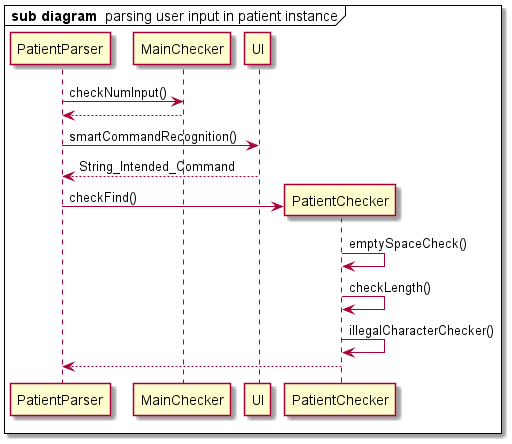
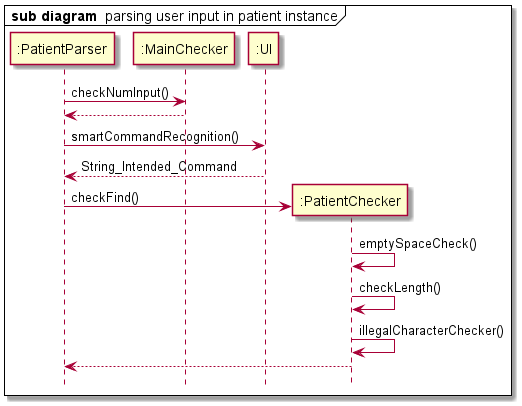
add details to DG and improve diagrams.

Changed region(s): [[0.0, 0.0, 1.0, 0.9754]]

diff --git a/docs/DeveloperGuide.md b/docs/DeveloperGuide.md
@@ -14,13 +14,9 @@
 5. [Design](#4-design) 
     1. [Architecture](#41-architecture) (owen)
     2. [UI component](#42-ui-component) (ms)
-    3. [Instance Component](#43-instance-component) (jiaen)
-    4. [Parser Component](#44-parser-component) (jien)
-    5. [Error Checker Component](#45-error-checker-component) (jiaen)
-    6. [Commands Component](#46-commands-component) (jiaen)
-    7. [Exceptions Component](#47-exceptions-component) (jiaen)
-    8. [Model component](#48-model-component) (alex)
-    9. [Storage component](#49-storage-component) (sarrah)
+    3. [Logic Component](#43-logic-component) (jiaen)
+    4. [Model component](#44-model-component) (alex)
+    5. [Storage component](#45-storage-component) (sarrah)
 6. [Implementation](#5-implementation)
     1. [Staff](#51-staff) 
     	1. [Staff Menu](#511-staff-menu)
@@ -88,6 +84,7 @@ The Developer Guide hopes to impart to you the following:
 1. Properly set up for HealthVault
 2. HealthVault's system architecture
 3. The implementation method for HealthVault's various functions and their considerations
+4. Instructions for manual testing of the application
 
 We hope you will have a fruitful time learning about HealthVault.
 
@@ -195,16 +192,13 @@ The UI of this program can be found under the package named UI. It consists of `
 &nbsp;&nbsp;&nbsp;&nbsp;&nbsp;&nbsp;&nbsp;&nbsp; Is responsible for handling all input and output of the program. 
 
 
-### 4.3 Instance Component
-**image for logic**
+### 4.3 Logic Component
 
-<img src="diagrams/LogicComponent.png">
+&nbsp;&nbsp;&nbsp;&nbsp;&nbsp;&nbsp;&nbsp;&nbsp; <img src="diagrams/LogicComponent.png">
 
-### 4.4 Parser Component
-### 4.5 Error Checker Component
-### 4.6 Commands Component
-### 4.7 Exceptions Component
-### 4.8 Model component
+<br>
+
+### 4.4 Model component
 
 &nbsp;&nbsp;&nbsp;&nbsp;&nbsp;&nbsp;&nbsp;&nbsp; <img src="images/Model.png">
 
@@ -216,12 +210,15 @@ The `Model`, consists of 5 different types of lists.
 - PatientList stores Patient objects. PatientList also has methods to modify the list with objects.
 - StaffList stores Staff objects. StaffList also has methods to modify the list with objects.
 
-### 4.9 Storage component
+<br>
+
+### 4.5 Storage component
 &nbsp;&nbsp;&nbsp;&nbsp;&nbsp;&nbsp;&nbsp;&nbsp; <img src="images/StorageUML.png">
 <br>
 
 ## 5. Implementation
 
+In this section, we will introduce the implementation of the different functions within each feature.
 
 ###  5.1 Staff
 
@@ -1081,7 +1078,25 @@ This function lists all the Inventories currently in the ArrayList<Inventory> In
 
 ## Appendix A: Product Scope
 
+**Target user profile:**
 <br>
+HealtVault targets users who work primarily in the healthcare industry. Such users include: Nurses, Hospital 
+Administrative Staff and Hospital Management Staff. Its features optimize it for users seeking:
+* Speed in recording down new details relating to critical healthcare services like nurse schedules and doctors appointments.
+* A cohesive database that records the critical information of everyone in the hospital, staff and patients included.
+* A desktop CLI application that has a minimalistic GUI.
+
+**Value Proposition:**
+<br>
+With its organized and portable database and its features to improve efficiency,
+HealthVault aspires to help its users achieve the following results:
+* Improve working speed of healthcare staff, as they can store and retrieve critical information quickly and accurately.
+* Minimize administrative errors with its inbuilt cross validation.
+* Easy implementation within a hospital environment with minimal setup steps and data reusability.
+<br>
+  
+Every second matters in the healthcare industry when patient lives are at stake. We believe that HealthVault can help
+its users save those precious seconds.
 
 ## Appendix B: User Stories
 
